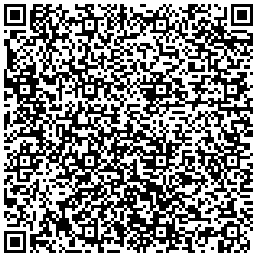
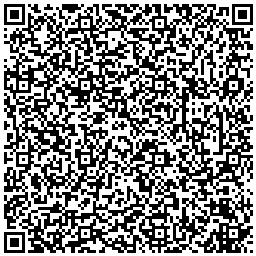
添加漫画基地

diff --git a/README.md b/README.md
@@ -7,6 +7,6 @@
 | 小程序  | 二维码 |
 | ------------- | ------------- |
 | 动漫基地  | ![小程序码](./animation_996/qrcode.png) |
-| undefined  | ![小程序码](./caricature_996/qrcode.png) |
+| 漫画基地  | ![小程序码](./caricature_996/qrcode.png) |
 | 直播live  | ![小程序码](./live_996/qrcode.png) |
 | 听书网  | ![小程序码](./ting_996/qrcode.png) |
